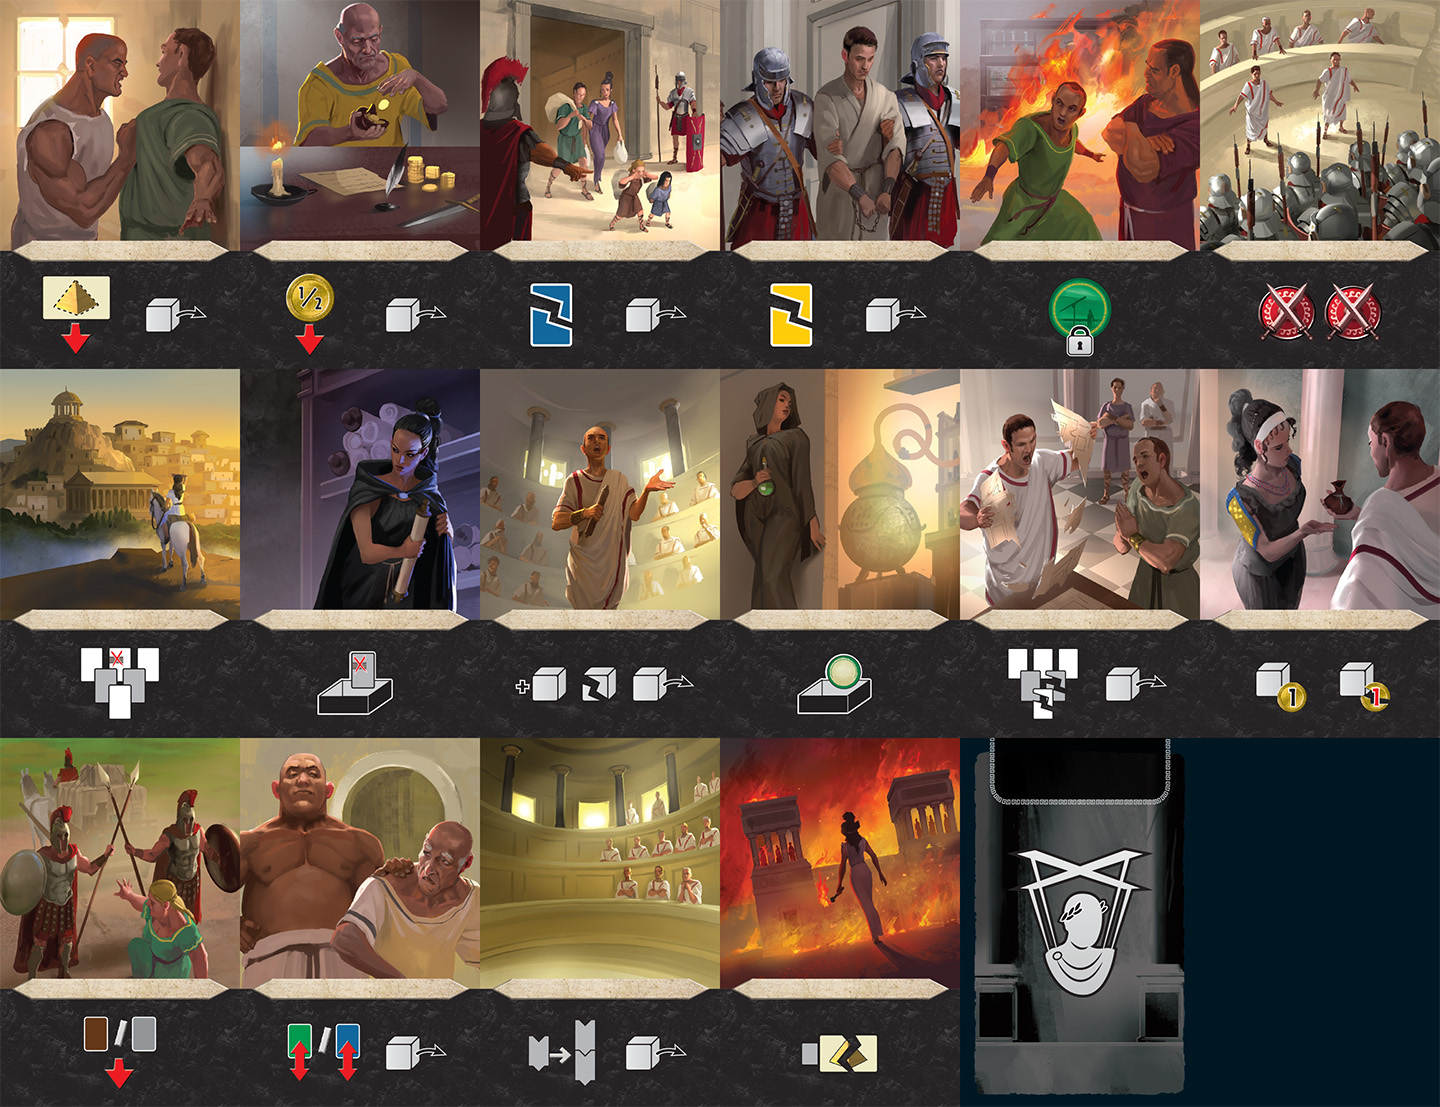
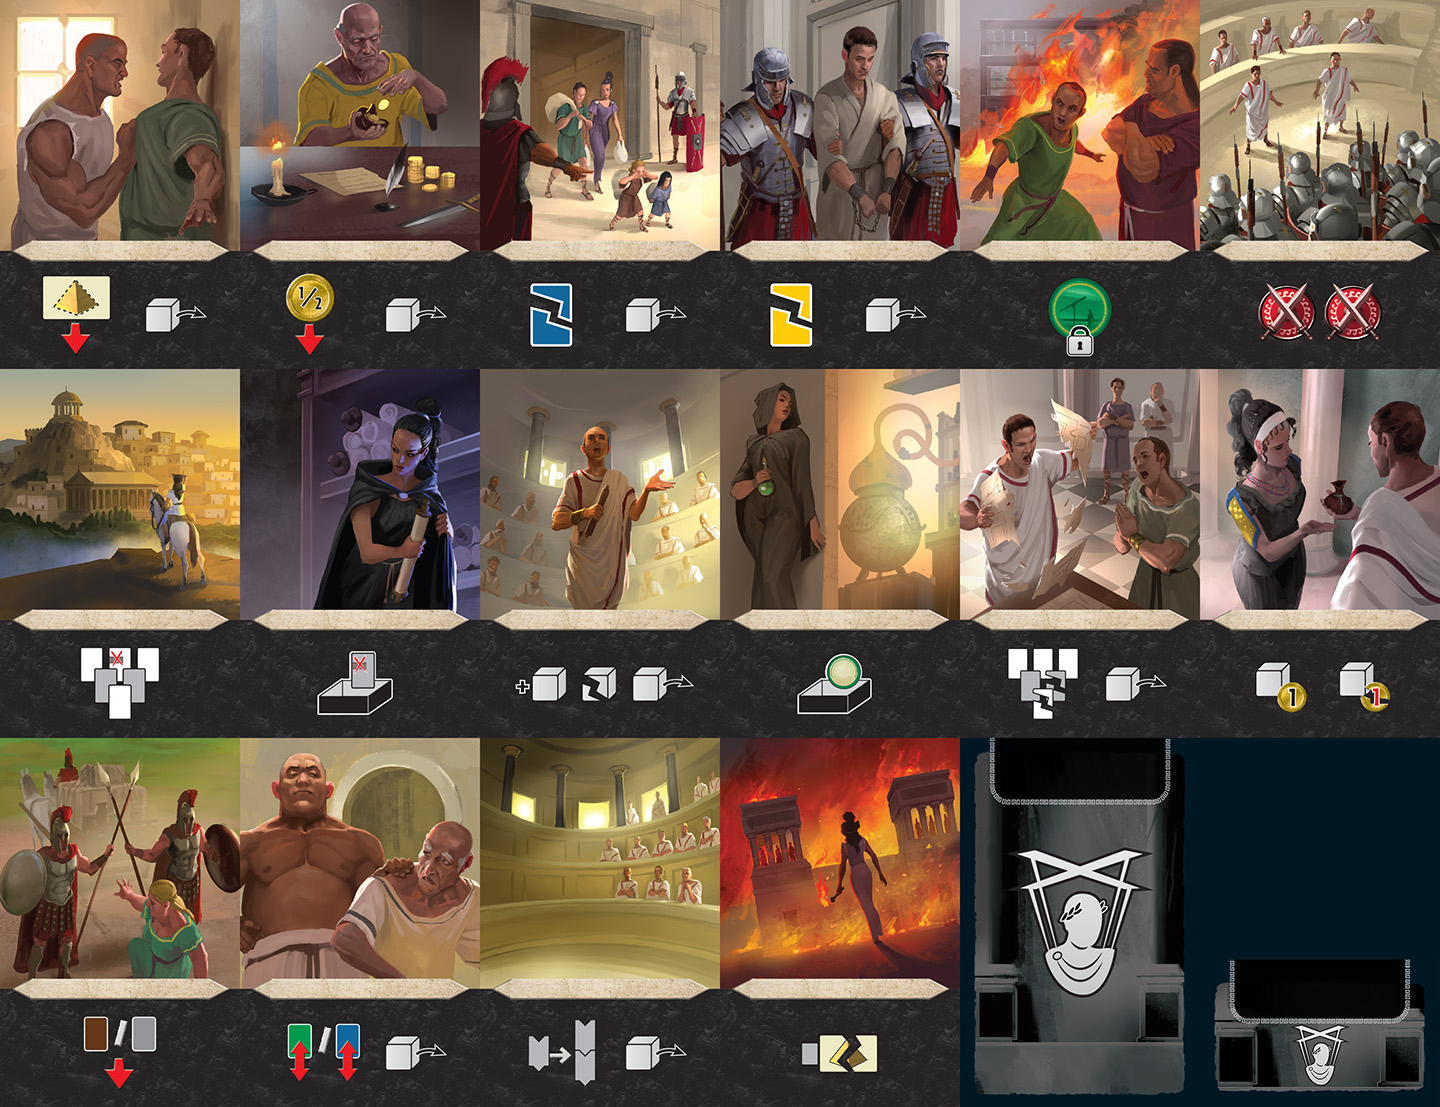
Fixed compact conspiracy

Changed region(s): [[0.8438, 0.86, 1.0, 1.0]]

diff --git a/sevenwondersduel_source.css b/sevenwondersduel_source.css
@@ -1511,14 +1511,16 @@ __        __              _
 
 .conspiracy .swd_title {
     position: relative;
-    top: 65.5%;
-    /*left: -3.5%;*/
+    top: 65%;
     font-size: calc(16px * var(--scale));
     display: block;
 }
 
 .conspiracy_small .swd_title {
     font-size: calc(16px * var(--wonder-small-scale));
+}
+.conspiracy_small.conspiracy_compact .swd_title {
+    top: 9%;
 }
 
 /*

diff --git a/sevenwondersduel.view.php b/sevenwondersduel.view.php
@@ -237,7 +237,7 @@ class view_sevenwondersduelagora_sevenwondersduelagora extends game_view
 
             $this->page->reset_subblocks('block_catalog_conspiracy');
             $this->page->reset_subblocks('block_catalog_conspiracy_compact');
-            for ($id = 1; $id <= 16; $id++) {
+            for ($id = 1; $id <= 18; $id++) {
                 $spritesheetColumns = 6;
                 $x = (($id - 1) % $spritesheetColumns);
                 $y = floor(($id - 1) / $spritesheetColumns);
